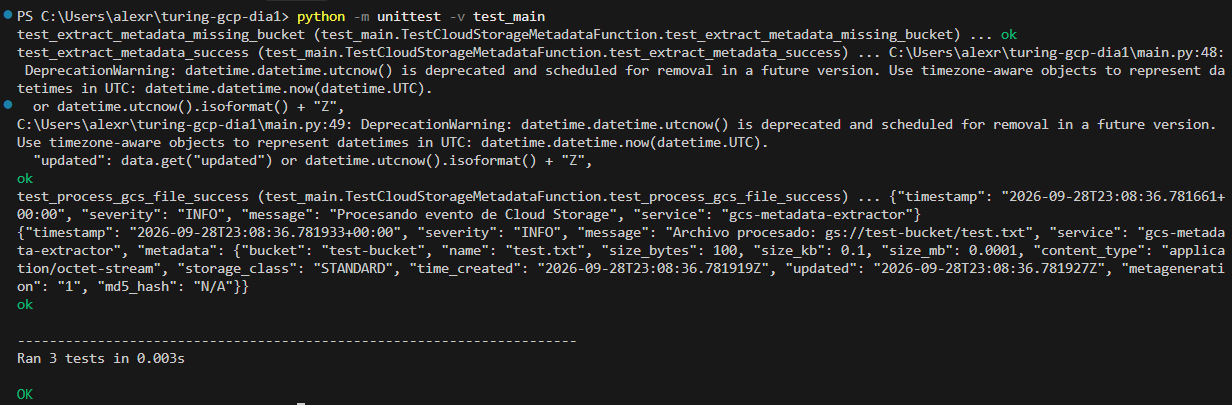
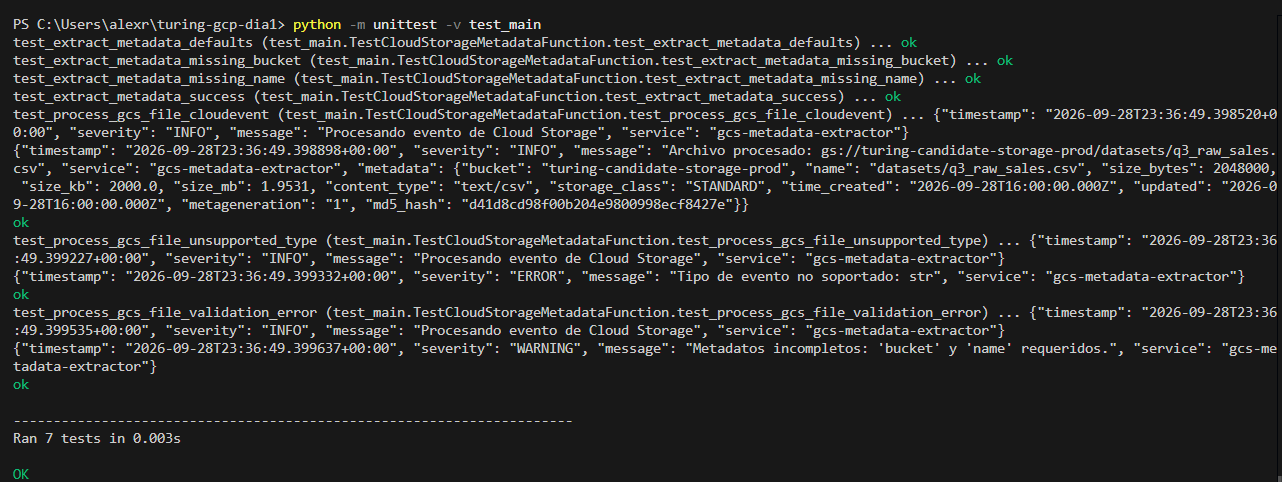
feat: suite completa de 7 pruebas unitarias y logging estructurado

diff --git a/main.py b/main.py
@@ -9,72 +9,77 @@ logger = logging.getLogger("gcs_metadata_processor")
 
 
 def log_structured(severity: str, message: str, **kwargs) -> Dict[str, Any]:
-    payload = {
-        "timestamp": datetime.now(timezone.utc).isoformat(),
-        "severity": severity.upper(),
-        "message": message,
-        "service": "gcs-metadata-extractor",
-        **kwargs,
-    }
-    logger.info(json.dumps(payload))
-    return payload
+  payload = {
+      "timestamp": datetime.now(timezone.utc).isoformat(),
+      "severity": severity.upper(),
+      "message": message,
+      "service": "gcs-metadata-extractor",
+      **kwargs,
+  }
+  logger.info(json.dumps(payload))
+  return payload
 
 
 def extract_metadata(data: Dict[str, Any]) -> Dict[str, Any]:
-    if not isinstance(data, dict):
-        raise ValueError(f"Payload inválido: {type(data).__name__}")
+  if not isinstance(data, dict):
+    raise ValueError(f"Payload inválido: {type(data).__name__}")
 
-    bucket_name = data.get("bucket")
-    file_name = data.get("name")
+  bucket_name = data.get("bucket")
+  file_name = data.get("name")
 
-    if not bucket_name or not file_name:
-        raise ValueError("Metadatos incompletos: 'bucket' y 'name' requeridos.")
+  if not bucket_name or not file_name:
+    raise ValueError("Metadatos incompletos: 'bucket' y 'name' requeridos.")
 
-    try:
-        raw_size = data.get("size", 0)
-        size_bytes = int(raw_size) if raw_size is not None else 0
-    except (ValueError, TypeError):
-        size_bytes = 0
+  try:
+    raw_size = data.get("size", 0)
+    size_bytes = int(raw_size) if raw_size is not None else 0
+  except (ValueError, TypeError):
+    size_bytes = 0
 
-    return {
-        "bucket": bucket_name,
-        "name": file_name,
-        "size_bytes": size_bytes,
-        "size_kb": round(size_bytes / 1024, 2),
-        "size_mb": round(size_bytes / (1024 * 1024), 4),
-        "content_type": data.get("contentType") or "application/octet-stream",
-        "storage_class": data.get("storageClass", "STANDARD"),
-        "time_created": data.get("timeCreated")
-        or datetime.utcnow().isoformat() + "Z",
-        "updated": data.get("updated") or datetime.utcnow().isoformat() + "Z",
-        "metageneration": data.get("metageneration", "1"),
-        "md5_hash": data.get("md5Hash", "N/A"),
-    }
+  return {
+      "bucket": bucket_name,
+      "name": file_name,
+      "size_bytes": size_bytes,
+      "size_kb": round(size_bytes / 1024, 2),
+      "size_mb": round(size_bytes / (1024 * 1024), 4),
+      "content_type": data.get("contentType") or "application/octet-stream",
+      "storage_class": data.get("storageClass", "STANDARD"),
+      "time_created": data.get("timeCreated")
+      or datetime.now(timezone.utc).isoformat(),
+      "updated": data.get("updated") or datetime.now(timezone.utc).isoformat(),
+      "metageneration": data.get("metageneration", "1"),
+      "md5_hash": data.get("md5Hash", "N/A"),
+  }
 
 
 def process_gcs_file(
     event: Any, context: Optional[Any] = None
 ) -> Dict[str, Any]:
-    log_structured("INFO", "Procesando evento de Cloud Storage")
+  log_structured("INFO", "Procesando evento de Cloud Storage")
 
-    event_data = event.data if hasattr(event, "data") else event
-    if not isinstance(event_data, dict):
-        err_msg = f"Tipo de evento no soportado: {type(event).__name__}"
-        log_structured("ERROR", err_msg)
-        return {"status": "error", "error": err_msg}
+  event_data = event.data if hasattr(event, "data") else event
+  if not isinstance(event_data, dict):
+    err_msg = f"Tipo de evento no soportado: {type(event).__name__}"
+    log_structured("ERROR", err_msg)
+    return {"status": "error", "error": err_msg}
 
-    try:
-        metadata = extract_metadata(event_data)
-        log_structured(
-            "INFO",
-            f"Archivo procesado: gs://{metadata['bucket']}/{metadata['name']}",
-            metadata=metadata,
-        )
-        return {
-            "status": "success",
-            "message": "Metadatos registrados",
-            "metadata": metadata,
-        }
-    except Exception as exc:
-        log_structured("ERROR", str(exc))
-        return {"status": "error", "error": str(exc)}
+  try:
+    metadata = extract_metadata(event_data)
+    log_structured(
+        "INFO",
+        f"Archivo procesado: gs://{metadata['bucket']}/{metadata['name']}",
+        metadata=metadata,
+    )
+    return {
+        "status": "success",
+        "message": "Metadatos registrados",
+        "metadata": metadata,
+    }
+  except ValueError as ve:
+    err_msg = str(ve)
+    log_structured("WARNING", err_msg)
+    return {"status": "validation_error", "error": err_msg}
+  except Exception as exc:
+    err_msg = str(exc)
+    log_structured("ERROR", err_msg)
+    return {"status": "internal_error", "error": err_msg}

diff --git a/test_main.py b/test_main.py
@@ -2,27 +2,62 @@ import unittest
 from main import extract_metadata, process_gcs_file
 
 
+class MockCloudEvent:
+  """Simula un objeto CloudEvent de Google Cloud Functions Gen 2."""
+
+  def __init__(self, data):
+    self.data = data
+
+
 class TestCloudStorageMetadataFunction(unittest.TestCase):
 
-  def test_extract_metadata_success(self):
-    payload = {
-        "bucket": "test-bucket",
-        "name": "data.csv",
-        "size": "1048576",
+  def setUp(self):
+    self.valid_payload = {
+        "bucket": "turing-candidate-storage-prod",
+        "name": "datasets/q3_raw_sales.csv",
+        "size": "2048000",
         "contentType": "text/csv",
+        "storageClass": "STANDARD",
+        "timeCreated": "2026-09-28T16:00:00.000Z",
+        "updated": "2026-09-28T16:00:00.000Z",
+        "metageneration": "1",
+        "md5Hash": "d41d8cd98f00b204e9800998ecf8427e",
     }
-    res = extract_metadata(payload)
-    self.assertEqual(res["name"], "data.csv")
-    self.assertEqual(res["size_mb"], 1.0)
+
+  def test_extract_metadata_success(self):
+    res = extract_metadata(self.valid_payload)
+    self.assertEqual(res["bucket"], "turing-candidate-storage-prod")
+    self.assertEqual(res["name"], "datasets/q3_raw_sales.csv")
+    self.assertEqual(res["size_bytes"], 2048000)
+    self.assertEqual(res["size_mb"], 1.9531)
 
   def test_extract_metadata_missing_bucket(self):
     with self.assertRaises(ValueError):
-      extract_metadata({"name": "data.csv"})
+      extract_metadata({"name": "data.csv", "size": 100})
 
-  def test_process_gcs_file_success(self):
-    payload = {"bucket": "test-bucket", "name": "test.txt", "size": "100"}
-    res = process_gcs_file(payload)
+  def test_extract_metadata_missing_name(self):
+    with self.assertRaises(ValueError):
+      extract_metadata({"bucket": "my-bucket", "size": 100})
+
+  def test_extract_metadata_defaults(self):
+    minimal = {"bucket": "my-bucket", "name": "docs/manual.pdf"}
+    res = extract_metadata(minimal)
+    self.assertEqual(res["size_bytes"], 0)
+    self.assertEqual(res["content_type"], "application/octet-stream")
+
+  def test_process_gcs_file_cloudevent(self):
+    event = MockCloudEvent(self.valid_payload)
+    res = process_gcs_file(event)
     self.assertEqual(res["status"], "success")
+
+  def test_process_gcs_file_validation_error(self):
+    invalid_event = {"bucket": "only-bucket-without-name"}
+    res = process_gcs_file(invalid_event)
+    self.assertEqual(res["status"], "validation_error")
+
+  def test_process_gcs_file_unsupported_type(self):
+    res = process_gcs_file("string_invalido_no_evento")
+    self.assertEqual(res["status"], "error")
 
 
 if __name__ == "__main__":
